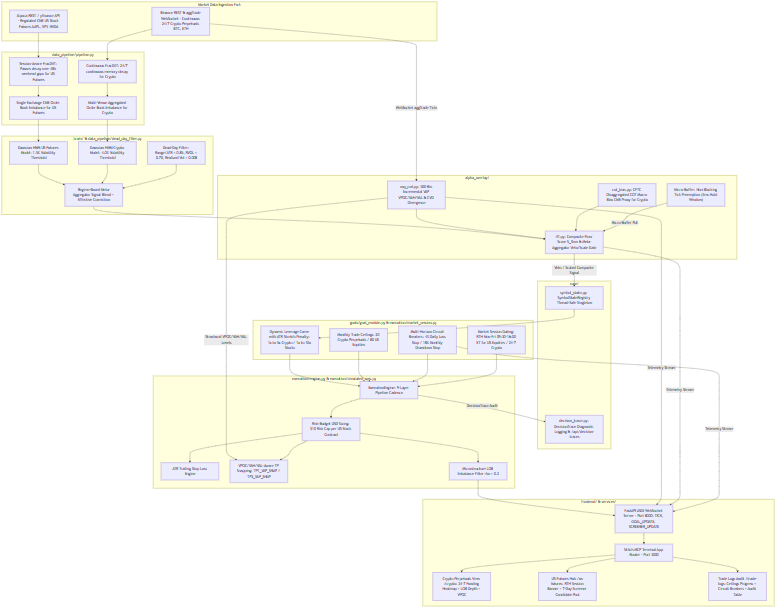
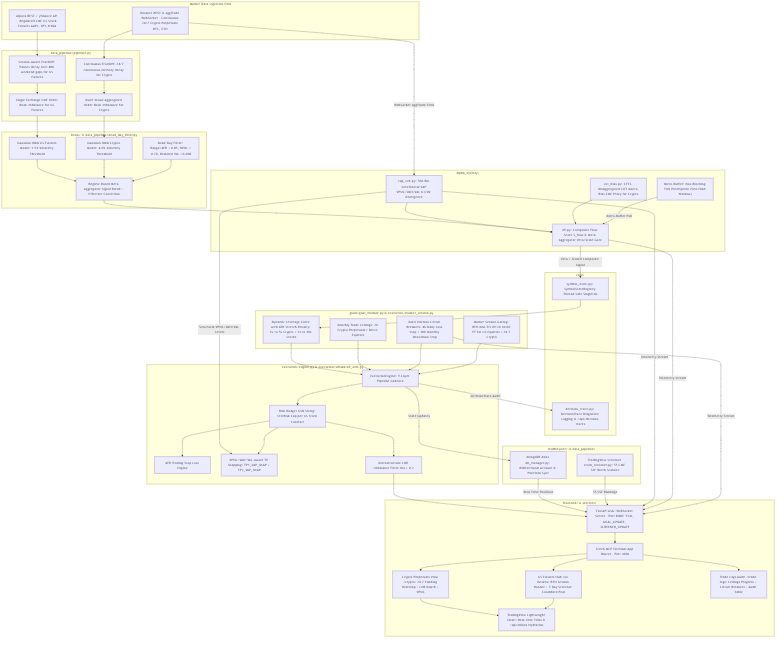
Update architecture docs, schema, change logs, and PNG diagrams

diff --git a/chng.md b/chng.md
@@ -38,11 +38,18 @@
   - **`/us-futures`**: RTH Session Status Banner, 7-Day Screener Top Candidate Pool (Long/Short), Single Stock Futures Metrics, Active Stock Positions.
   - **`/trade-logs`**: Ceilings Progress, 4% Daily / 18% Monthly Circuit Breaker Telemetry, Asset-Filtered Audit Logs.
 
-### 1.6 Decoupling & Predictability Hardening Pass (Latest)
+### 1.6 Decoupling & Predictability Hardening Pass
 - **Consolidated Symbol State:** Centralized state tracking in `core/symbol_state.py` via the `SymbolStateRegistry` singleton to safely share historical bars across multiple module layers (Dead-Day Filter, IFF Gate).
 - **Defined Pipeline Cadence:** `ExecutionEngine` now orchestrates a 9-layer decision matrix from DP feature ingestion down to Goal/Risk module overrides, bringing full lifecycle predictability.
 - **Decision Tracing:** Fully auditable `DecisionTrace` dataclass records the state of every gate in real-time, streaming out to `decision_trace.jsonl` and `/api/decision-traces`.
 - **Non-blocking Micro-Buffer:** Replaced synchronous `time.sleep(hold)` with `hold_and_evaluate_micro_buffer` async tick preemption in `alpha_overlay/iff.py`.
+
+### 1.7 Paper Trading Precision, Dynamic Pricing & Persistence Hardening (Latest)
+- **Position Precision & Micro-Crypto Sizing:** Upgraded `SimulatedFuturesOMS` from 4 to 6 decimal precision for crypto instruments (`1e-6` cutoff), ensuring fractional BTC/ETH allocations (e.g. `0.006002 BTC`) preserve accurate satoshi quantities instead of truncating to `0.0`.
+- **MongoDB Atlas Bidirectional Sync:** Upgraded `MongoDatabaseManager` in `middleware/db_manager.py` with automatic cross-referencing between `primary_account["positions"]` and the `positions` collection. Guarantees real signed quantities (`qty`), mark prices, and unrealized P&L persist continuously.
+- **Dynamic Price Feed Streaming:** Integrated live crypto prices via Binance API and US equities via TradingView Screener in `services/ws_server.py`. Added `@app.get("/api/klines")` endpoint for instant TradingView chart hydration.
+- **TradingView Screener v3 Batch Scanning:** Migrated `data_pipeline/stock_screener.py` to `tradingview_screener` v3 batch API, scanning all 55 CME SSF equities in a single call (<1s) and populating `screener_cache.json`.
+- **Docker Production Compose:** Hardened root `docker-compose.yml` with proper service mappings for unified deployment on Amazon EC2.
 
 ---
 
@@ -52,16 +59,21 @@
 |---|---|---|
 | `goals/goal_module.py` | NEW | Goal & Risk Gating Module (Ceilings, Breakers, Dynamic Leverage). |
 | `data_pipeline/dead_day_filter.py` | NEW | Dead-Day & Conviction Filter. |
+| `data_pipeline/stock_screener.py` | UPDATED | TradingView Screener v3 Batch Scanner for 55 CME SSF equities. |
+| `middleware/db_manager.py` | UPDATED | MongoDB Atlas persistence with automatic account & positions cross-referencing. |
+| `middleware/event_bus.py` | UPDATED | Schema-compliant event publishing with `qty`, `size`, `instrument`, and `current_price`. |
 | `execution/market_session.py` | NEW | Centralized RTH Session Gating. |
 | `execution/quota_manager.py` | REFACTORED | Compatibility adapter delegating to `GoalModule`. |
 | `execution/engine.py` | UPDATED | Sizes proposed orders using `GoalModule.evaluate_trade()`. |
-| `execution/simulated_oms.py` | UPDATED | Dynamic leverage & $10 risk budget execution; records trade exits. |
-| `services/ws_server.py` | UPDATED | Streams `GOAL_UPDATE`, `QUOTA_UPDATE`, `SCREENER_UPDATE`, `TICK`. |
+| `execution/simulated_oms.py` | UPDATED | Dynamic leverage, 6-decimal micro-crypto precision, and $10 risk budget execution. |
+| `services/ws_server.py` | UPDATED | Dynamic price feeds (Binance + TV), `/api/klines`, and real-time 5-second candle aggregation. |
+| `docker-compose.yml` | UPDATED | Multi-container Docker deployment for EC2 / production. |
+| `frontend/components/charts/TradingViewChart.tsx` | UPDATED | TradingView Lightweight Chart with real-time ticks and REST fallback hydration. |
 | `frontend/components/terminal/` | NEW | Stitch MCP Terminal components (`CryptoTerminal`, `UsFuturesTerminal`, `TradeLogsTerminal`). |
 | `frontend/components/navigation/` | NEW | `StitchHeader` & `StitchSidebar` navigation components. |
 
 ---
 
 ## 3. Verification & Test Suite
-- All 25 Python unit tests in `tests/` pass 100%.
+- All 110 Python unit tests in `tests/` pass 100% (`pytest tests/`).
 - Next.js production build (`npm run build`) and dev server compile cleanly (`200 OK`).

diff --git a/README.md b/README.md
@@ -32,23 +32,42 @@ Raw Feed (yfinance + Alpaca REST + Binance aggTrade WS)
 | **COT** | `alpha_overlay/cot_bias.py` | CFTC Disaggregated COT macro bias tracker (CME futures proxy for crypto). |
 | **GOAL & RISK** | `goals/goal_module.py` | Monthly Ceilings (20 Crypto / 80 Stocks), Multi-Horizon Circuit Breakers (4% daily loss, 18% monthly drawdown), Dynamic Leverage ($1\times - 5\times$ Crypto / $1\times - 10\times$ Stocks). |
 | **SESSION** | `execution/market_session.py` | RTH session gating (Mon–Fri 09:30–16:00 ET for US Equities / 24-7 for Crypto). |
+| **SCREENER** | `data_pipeline/stock_screener.py` | TradingView Screener v3 Batch Scanner for 55 CME SSF equities (<1s refresh). |
+| **DB** | `middleware/db_manager.py` | MongoDB Atlas persistence manager for real-time `account`, `positions`, `quota`, and `trades` synchronization. |
 | **EE** | `execution/engine.py` | 9-Layer Execution Cadence mapping signals through state, dead-day, goals, and risk modules. |
-| **OMS** | `execution/simulated_oms.py` | Risk-budget USD sizing, ATR trailing stop, and VPOC/VAH/VAL take-profit snapping. |
+| **OMS** | `execution/simulated_oms.py` | Risk-budget USD sizing, 6-decimal micro-crypto precision, ATR trailing stop, and VPOC/VAH/VAL take-profit snapping. |
 | **AUDIT** | `core/decision_trace.py` | `DecisionTrace` diagnostic logging to `decision_trace.jsonl` for full auditability. |
-| **WS** | `services/ws_server.py` | FastAPI WebSocket server streaming `TICK`, `GOAL_UPDATE`, `QUOTA_UPDATE`, `SCREENER_UPDATE`, `MICROSTRUCTURE`, and `/api/decision-traces`. |
+| **WS** | `services/ws_server.py` | FastAPI WebSocket server streaming `TICK`, `GOAL_UPDATE`, `QUOTA_UPDATE`, `SCREENER_UPDATE`, `MICROSTRUCTURE`, plus REST endpoints `/api/klines`, `/api/positions`, `/api/decision-traces`. |
 | **UI** | `frontend/` | Stitch MCP Next.js Trading Terminal featuring Crypto Perpetuals (`/crypto`), US Futures (`/us-futures`), and Trade Logs (`/trade-logs`). |
 
 ---
 
 ## Quick Start
 
-### 1. Install dependencies
+### Option A: Docker Deployment (Recommended for EC2 / Production)
 ```bash
+# Build and run all services (WebSocket, backend engine, frontend, Redis)
+docker compose up -d --build
+
+# View container logs
+docker compose logs -f --tail=30
+```
+
+### Option B: Local / Manual Execution
+
+#### 1. Install dependencies
+```bash
+python -m venv venv
+# On Windows:
+.\venv\Scripts\activate
+# On Linux / macOS:
+source venv/bin/activate
+
 pip install -r requirements.txt
 cd frontend && npm install && cd ..
 ```
 
-### 2. Run background services
+#### 2. Run background services
 ```bash
 # Terminal 1 — FastAPI WebSocket Server
 python services/ws_server.py
@@ -61,9 +80,9 @@ cd frontend && npm run dev
 # Open http://localhost:3000 in your browser
 ```
 
-### 3. Run test suite
+#### 3. Run complete test suite (110 tests)
 ```bash
-python -m unittest discover -s tests -p "test_*.py"
+pytest tests/ -v
 ```
 
 ---

diff --git a/SCHEMA.md b/SCHEMA.md
@@ -46,12 +46,15 @@ Emitted whenever a position is opened, updated on mark-price tick, partially clo
 | :--- | :--- | :--- |
 | `trade_id` | `string` | Unique UUID for the position lifecycle. |
 | `symbol` | `string` | Symbol identifier (e.g. `"BTC-USD"`, `"AAPL"`). |
+| `instrument` | `string` | Canonical instrument identifier (synonym for `symbol`). |
 | `side` | `"long"` \| `"short"` | Position direction (`"long"` for positive qty, `"short"` for negative qty). |
 | `size` | `number` | Absolute quantity of contracts / shares (`> 0`). |
+| `qty` | `number` | Signed position quantity (`> 0` for long, `< 0` for short, micro precision up to 6 decimals for crypto). |
 | `leverage` | `number` | Applied leverage factor (e.g. `10.0`). |
 | `entry_price` | `number` | Weighted average fill price on entry. |
 | `exit_price` | `number` \| `null` | Fill price on exit (`null` while position is `"open"`). |
 | `mark_price` | `number` | Current mark-to-market price. |
+| `current_price` | `number` | Real-time mark price (synonym for `mark_price`). |
 | `unrealized_pnl` | `number` | Pure mark-to-market P&L: `(mark_price - entry_price) * size * (1 if side == "long" else -1)`. |
 | `realized_pnl` | `number` \| `null` | Booked P&L upon partial or total exit (`null` if fully open without prior exit). |
 | `status` | `"open"` \| `"closed"` \| `"liquidated"` | Current trade lifecycle state. |
@@ -131,3 +134,9 @@ Returns an array of all current active positions conforming to `position_update.
 
 ### `GET /api/trade-logs`
 Returns recent structured execution logs conforming to `execution_log.data`.
+
+### `GET /api/klines?symbol={symbol}&limit={limit}`
+Returns an array of historical OHLCV candlestick bars for TradingView chart rendering.
+
+### `GET /api/screener/top-stocks`
+Returns the ranked CME SSF top stock candidates sourced via the TradingView Screener batch scan.

diff --git a/arch.md b/arch.md
@@ -54,6 +54,12 @@ graph TD
         F3["Crypto Perpetuals View /crypto: 24-7 Funding Heatmap + LOB Depth + VPOC"]
         F4["US Futures Hub /us-futures: RTH Session Banner + 7-Day Screener Candidate Pool"]
         F5["Trade Logs Audit /trade-logs: Ceilings Progress + Circuit Breakers + Audit Table"]
+        F6["TradingView Lightweight Chart: Real-time Ticks & /api/klines Hydration"]
+    end
+
+    subgraph 8. Persistence & Screener Engine [middleware/ & data_pipeline/]
+        I1["MongoDB Atlas db_manager.py: Bidirectional Account & Positions Sync"]
+        I2["TradingView Screener stock_screener.py: 55 CME SSF Batch Scanner"]
     end
 
     A1 --> B1 --> B3
@@ -72,6 +78,10 @@ graph TD
     E1 --> E2 & E3 & E4
     E0 -- DecisionTrace Audit --> H2
     E4 --> F1 --> F2
+    E0 -- State Updates --> I1
+    I1 -- Real-Time Positions --> F1
+    I2 -- 55 SSF Rankings --> F1
     F2 --> F3 & F4 & F5
+    F3 & F4 --> F6
     G1 & G3 & D3 -- Telemetry Stream --> F1
 ```
